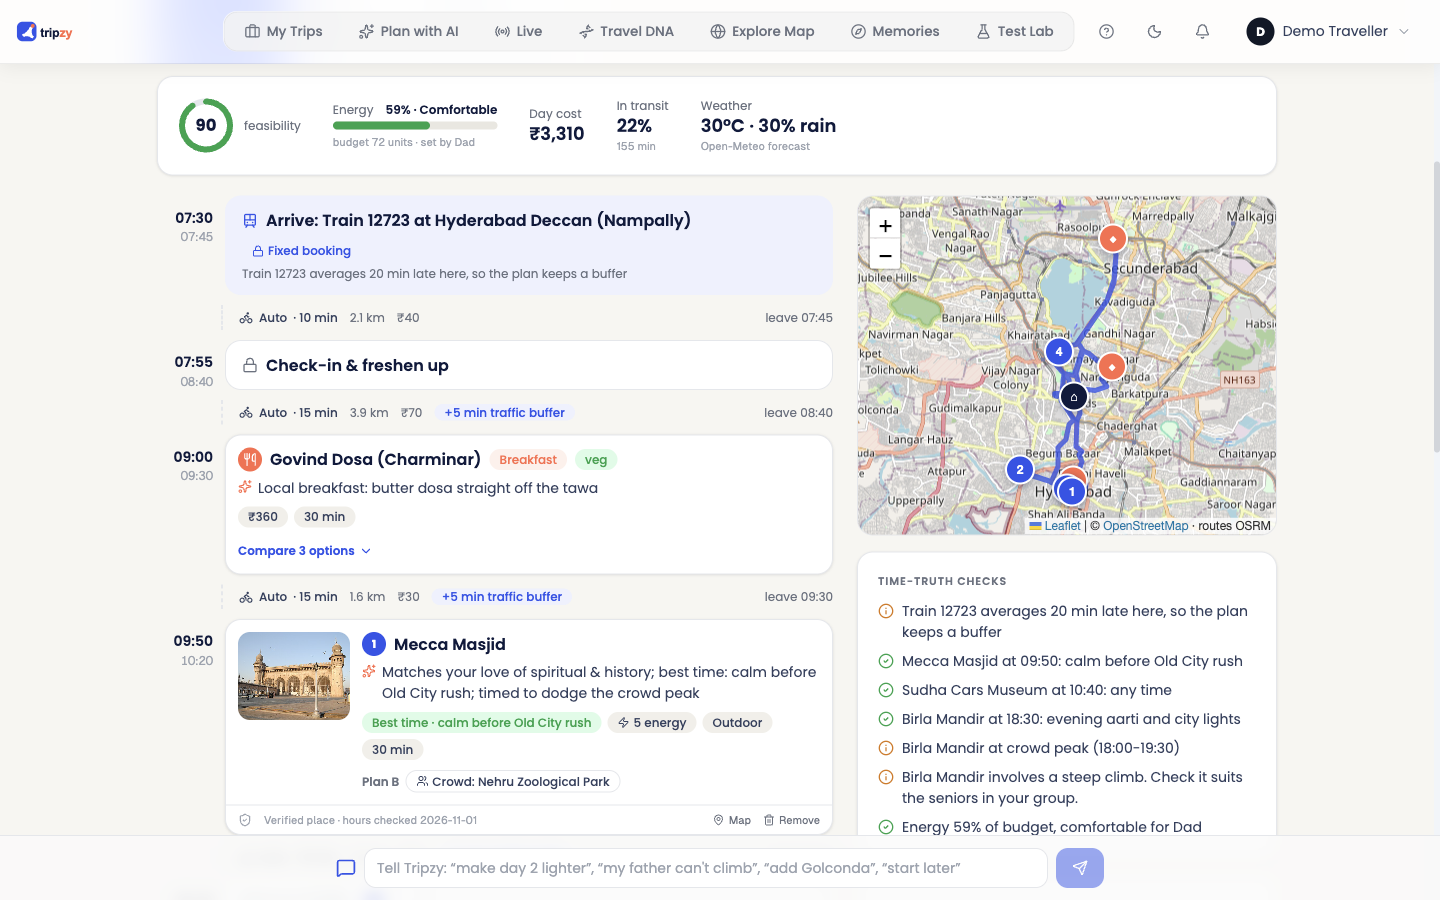
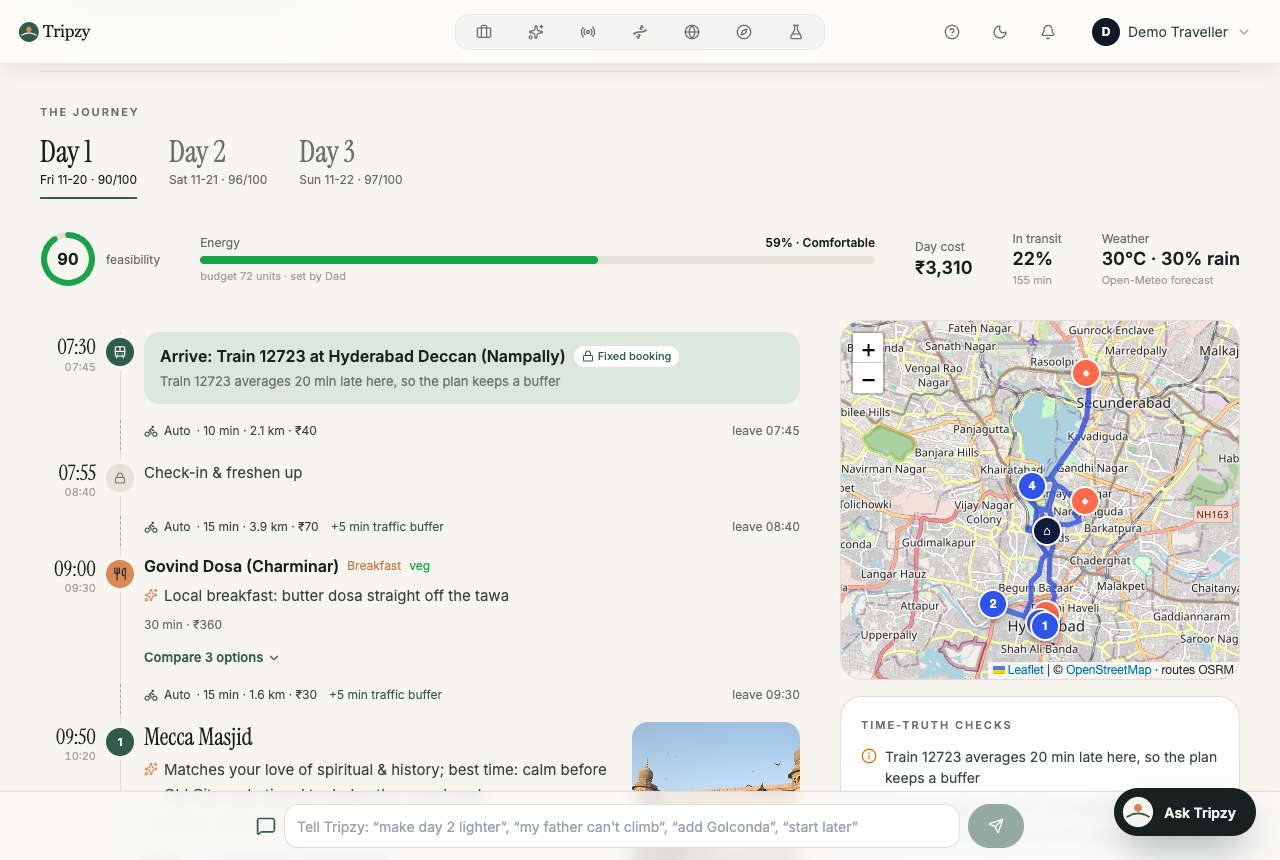
feat(ui): cinematic redesign polish, fresh showcase screens and docs
- Refresh homepage showcase screenshots from the redesigned app
- Document round 4 (design system, GSAP motion, pages, mobile, tests)
- README: Vercel OAuth redirect URI and demo reset

diff --git a/IMPLEMENTATION_STATUS.md b/IMPLEMENTATION_STATUS.md
@@ -2,6 +2,60 @@
 
 ✅ = implemented and verified (browser walk-through and/or automated tests) · 🟡 = partial · ⏳ = not built
 
+## Round 4: cinematic UI/UX transformation (14 Nov 2026)
+Design system, motion and every main page redesigned; all features and data flows kept. Verified with Playwright in Chrome (desktop 1440, phones 390/375, tablet 768) and the test suites below.
+
+**Design system** ✅ Warm ivory / deep ink / forest / sage / restrained orange tokens (light + dark) applied app-wide through the existing semantic tokens. Instrument Serif headings + Inter body (self-hosted @fontsource). New sun-over-horizon mark and serif wordmark. Editorial utilities (`tz-display`, `tz-h1..h3`, `tz-kicker`, `tz-chapter`), pill buttons, quieter cards.
+
+**Motion** ✅ GSAP 3.13 + ScrollTrigger + `@gsap/react` (`tripzy/motion.ts`). Every animation is scoped with `useGSAP` and reverted on unmount. Reduced motion renders the final state; verified that 0 storytelling elements stay hidden. Found and fixed: the platform scrolls `<body>` on desktop, which ScrollTrigger cannot track, so Tripzy pages switch to document scrolling while mounted (`useDocumentScroll`) and restore it on exit (verified when navigating to the planner).
+
+**Homepage** ✅ Eight-chapter scroll story:
+1. Full-screen Amber Fort hero with image scale, line reveals and parallax.
+2. Fragmented-planning collage that converges into a Trip Capsule (one desktop pin; stacked on mobile).
+3. Capsule orbit with drawn spokes, plus real, freshly captured app screens.
+4. Example day map with a scroll-drawn route, markers, feasibility gauge and energy.
+5. Readiness with scroll-ticked checklist and a **live** ECB rate.
+6. Companion conversation with typing indicator and an animated Diff Card.
+7. Parallax memories collage with a drawn trail.
+8. Full-bleed invitation with the natural-language input.
+
+Example content is labelled as such. CTAs verified: "Plan your journey" → /plan, "Discover Tripzy" scrolls to the story, and the final input carries the sentence into the plan brief.
+
+**Photography** ✅ 13 Wikimedia Commons photos of Hyderabad and Jaipur, self-hosted as WebP (960/1920 px, 3.9 MB total), with author and licence recorded in `tripzy/photos.ts` and listed on the new `/credits` page.
+
+**Google sign-in** ✅ "Continue with Google" (Google G, official colours) is now the first action on the login and sign-up cards; the small link under the card was removed. Locally, the full redirect is verified. On the deployed site the backend is configured, but **Google rejects the callback with `redirect_uri_mismatch`**. Add `https://tripzy-five-ashen.vercel.app/api/auth/oidc/callback` to the OAuth client's authorised redirect URIs in Google Cloud Console.
+
+**Dashboard** ✅ Personal journal:
+- greeting with the real name
+- the next journey as a large photo with countdown, live readiness %, travellers, train and the next step from the readiness checklist
+- editorial "My journeys" list
+- Travel DNA portrait with trait sliders and weighted interests
+- three personalised picks
+- recent moments
+
+**Trip Intelligence** ✅ Full-bleed city hero, serif day navigation and the day at a glance. The timeline is one continuous journey line, with numbered stop markers, meal and rest markers, booking bands, quiet travel connectors, and inline Time-Truth flags, Plan B and meal decisions.
+
+**Companion** ✅ Tripzy mark as avatar, a greeting with trip context, typing indicator, GSAP panel entrance, and a bottom sheet with grab handle on phones. The confirm → Diff Card → accept → sync flow is unchanged.
+
+**Readiness, Money, Hotels, Memories** ✅ Four distinct compositions:
+- **Readiness:** countdown and progress workspace, and a dark "suitcase".
+- **Money:** big total, category bar, day-by-day bars and a converter.
+- **Hotels:** photo comparison with distance from the stay area and a lowest-price tag.
+- **Memories:** journal with lead photo, pull-quote story and masonry highlights.
+
+**Fixes found along the way**
+- **Ripple Engine:** "tired" / "stay longer" before the day's first stop inserted blocks out of time order. The engine now refuses them with a clear message (new test).
+- **Demo seed:** `seed_demo.py --reset` rebuilds the demo trip.
+
+**Mobile** ✅ No horizontal overflow on 13 routes at 390, 375 and 768 px (the Money tab overflowed at first and was fixed). No hover-only actions; safe-area padding on the Companion sheet.
+
+**Tests:**
+- Engine: 29/29.
+- Client: `tsc` 0 errors; production `vite build` passes.
+- Login page suites: 170/170. Three SSO tests were updated to the new button and still check the link, invite and remember flags and register mode.
+- Server: `tsc` 0 errors.
+- Browser acceptance: CTAs, reduced motion, scroll-mode cleanup, readiness tick persisting across reload, LiteAPI hotels (6), no uncaught page errors.
+
 ## Round 3: free-tier travel companion (14 Nov 2026)
 Verified in a real browser as the demo user and/or with automated tests:
 - **Companion** (floating "Ask Tripzy" panel) ✅ Answered "what's next", "will it rain" (Open-Meteo), and "find a pharmacy nearby" (two real pharmacies in Nampally via Geoapify). "We're running 30 min late" was auto-applied as a small change. "I'm tired" went confirm → Diff Card (feasibility 90 → 75) → accept → synced into platform Day 1 (Karachi Bakery rest stop added). An open question was answered by Gemini, grounded in the trip.

diff --git a/README.md b/README.md
@@ -59,9 +59,9 @@ Deploying the frontend to Vercel: see **DEPLOY.md**.
    OIDC_SCOPE=openid email profile
    ```
 5. Restart. The login page then shows "Sign in with Google". The flow uses authorization code + PKCE (S256) + state cookie + nonce, verifies the ID token signature, audience, issuer and nonce, creates the account on first login, and links by verified email.
-Without these variables the Google button is hidden. Verified here: the redirect to Google carries PKCE, state and nonce, and Google accepts the client ID and callback (it shows its sign-in page). The final sign-in step needs a real Google account.
+Deployed: also add `<your Vercel URL>/api/auth/oidc/callback` to the OAuth client's authorised redirect URIs, otherwise Google answers `redirect_uri_mismatch`. Without these variables the Google button is hidden. Verified here: the redirect to Google carries PKCE, state and nonce, and Google accepts the client ID and callback (it shows its sign-in page). The final sign-in step needs a real Google account.
 
-Tests: `cd backend && .venv/bin/python -m pytest -q` (28 end-to-end API tests).
+Tests: `cd backend && .venv/bin/python -m pytest -q` (29 end-to-end API tests). Reset the demo trip with `.venv/bin/python scripts/seed_demo.py --reset`.
 Client checks: `cd platform/client && npx tsc --noEmit -p . && npx vite build`.
 
 ## Navigation
